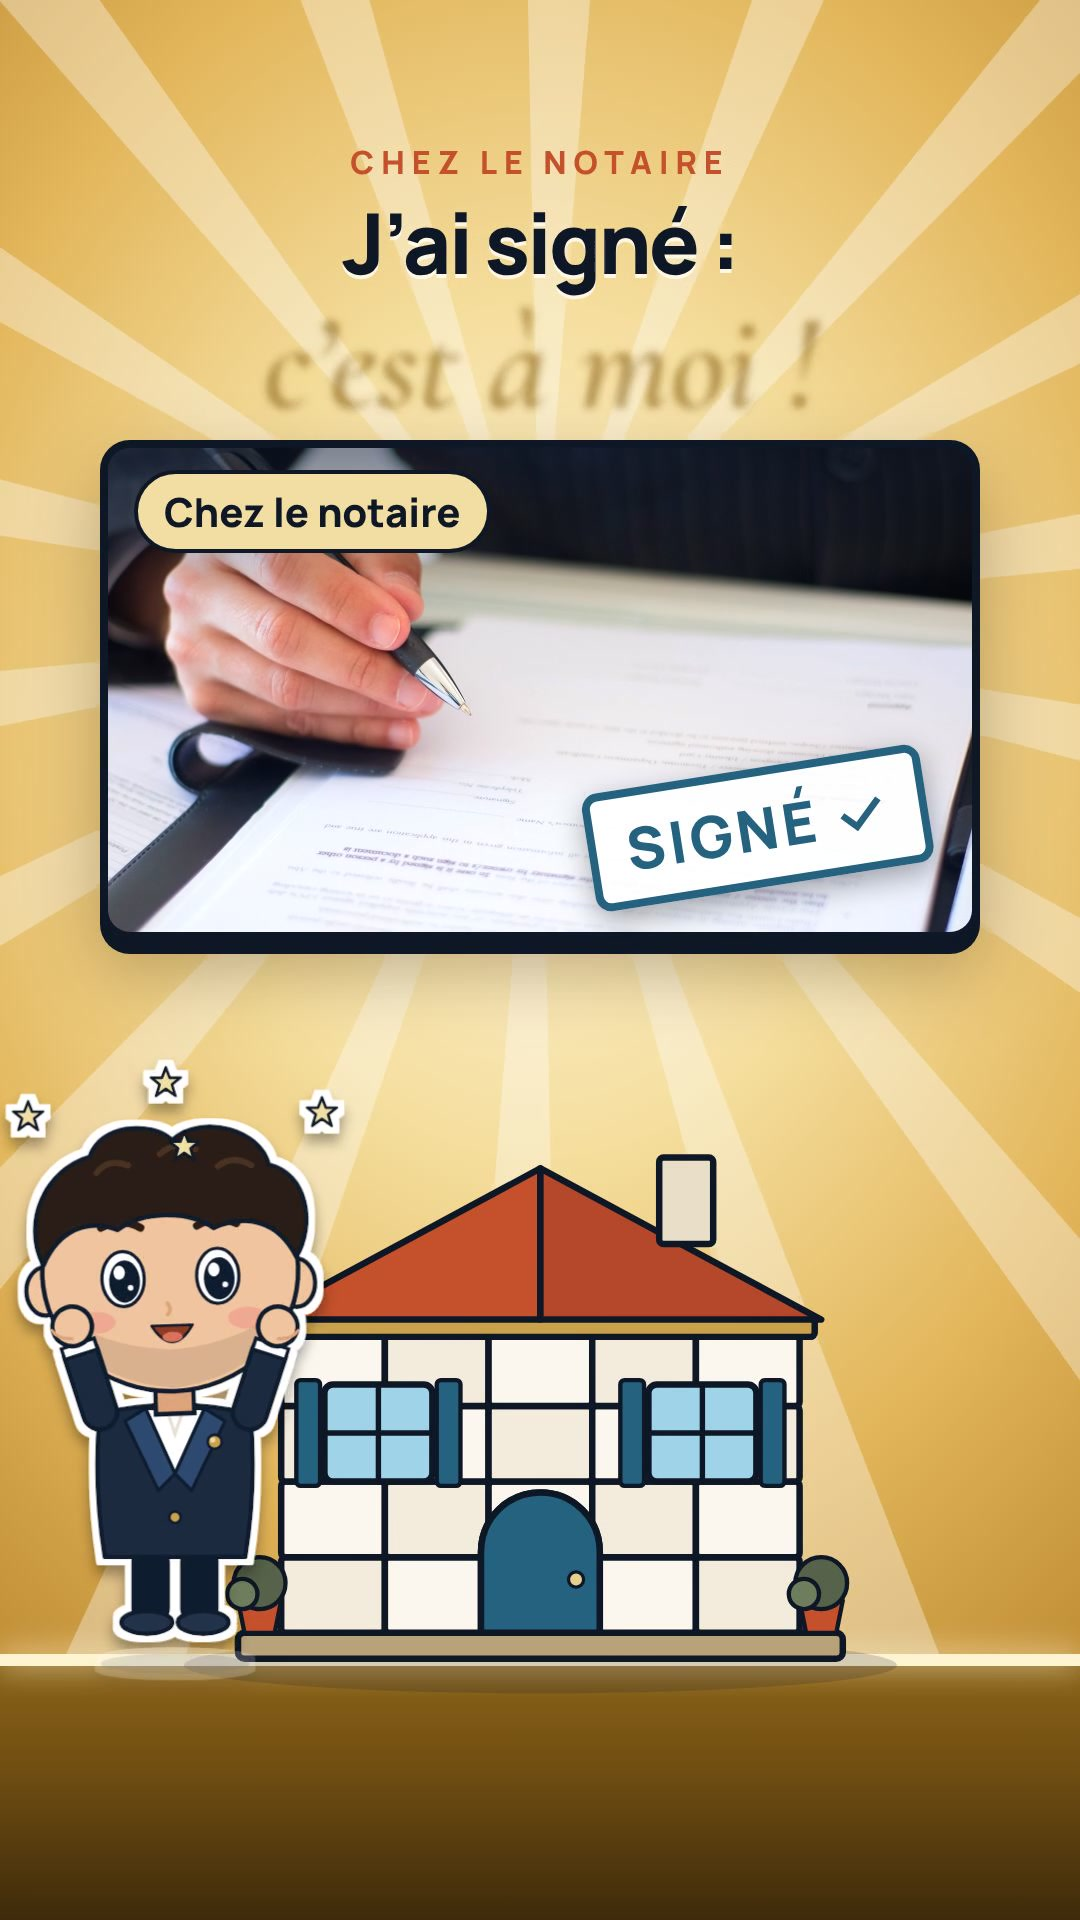
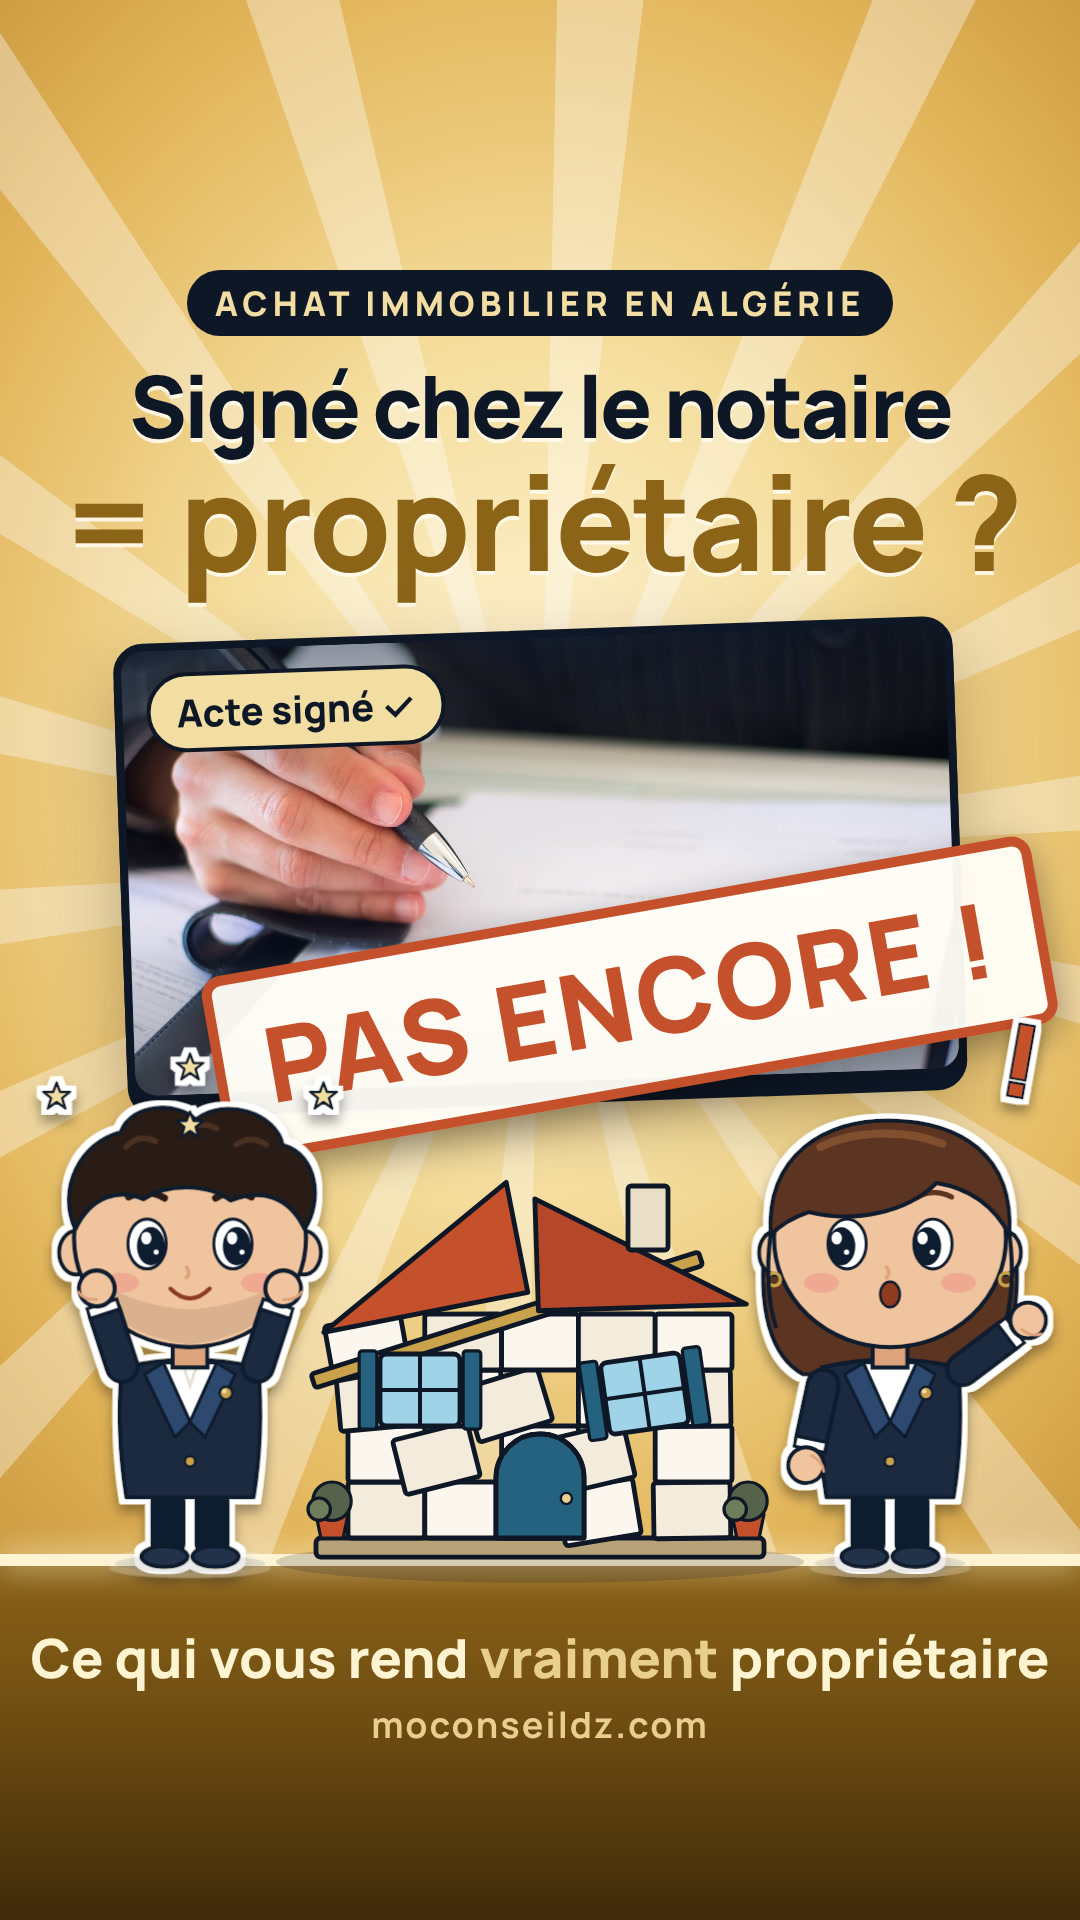
Duo n°2 : couverture dédiée (signé = propriétaire ? PAS ENCORE !)
Claude-Session: https://claude.ai/code/session_01Cr3Hhr15Lmxkkgbeev5QRS

diff --git a/outils/video/src/duo2_couverture.tsx b/outils/video/src/duo2_couverture.tsx
@@ -1,0 +1,56 @@
+// Couverture de la vidéo duo n°2 (17/11/2026) : « Signé chez le notaire = propriétaire ? PAS ENCORE ! »
+// Message lisible dans la zone centrale 1080 x 1350 (recadrage de la grille Instagram) ; mêmes éléments que la vidéo.
+import React from 'react';
+import {AbsoluteFill, Img, staticFile} from 'remotion';
+import {Chibi} from './chibi';
+import {C, SANS} from './kit';
+import {Maison} from './maison';
+
+const W = 1080, H = 1920, SOL = 1560;
+const NUIT = '#0E1726', TERRE = '#C4512B', OR_F = '#8C6418';
+const big: React.CSSProperties = {fontFamily: SANS, fontWeight: 800, letterSpacing: -3, lineHeight: 1.02, color: NUIT, filter: 'drop-shadow(0 4px 0 rgba(255,250,235,0.9))'};
+
+export const DuoSigneCouverture: React.FC<{crash?: number}> = ({crash = 0.13}) => {
+  const PW = 840, PHh = 460, PY = 860;
+  return (
+    <AbsoluteFill style={{background: '#F6E7BE'}}>
+      <AbsoluteFill style={{background: 'radial-gradient(ellipse 90% 65% at 50% 40%, #FFF6DC 0%, #F5DE9E 34%, #E2B55A 66%, #B8842C 100%)'}} />
+      <svg width={W} height={H} style={{position: 'absolute', inset: 0, opacity: 0.35}}>
+        <g transform={`translate(${W / 2} 860) rotate(4)`}>
+          {Array.from({length: 18}).map((_, i) => <path key={i} d="M0 0 L-70 -1400 L70 -1400 Z" fill="#FFFFFF" transform={`rotate(${i * 20})`} />)}
+        </g>
+      </svg>
+      {/* titre */}
+      <div style={{position: 'absolute', top: 270, width: '100%', textAlign: 'center'}}>
+        <div style={{display: 'inline-block', padding: '10px 28px', borderRadius: 999, background: NUIT, fontFamily: SANS, fontWeight: 800, fontSize: 34, letterSpacing: 5, color: '#F2DDA2', textTransform: 'uppercase'}}>Achat immobilier en Algérie</div>
+        <div style={{...big, fontSize: 86, marginTop: 26}}>Signé chez le notaire</div>
+        <div style={{...big, fontSize: 132, color: OR_F, marginTop: 4}}>= propriétaire ?</div>
+      </div>
+      {/* vraie photo de signature */}
+      <div style={{position: 'absolute', left: W / 2, top: PY, transform: 'translate(-50%,-50%) rotate(-2deg)'}}>
+        <div style={{position: 'relative', width: PW, height: PHh, borderRadius: 30, overflow: 'hidden', border: `8px solid ${NUIT}`, boxShadow: `0 14px 0 ${NUIT}, 0 30px 70px rgba(80,50,0,0.35)`, background: NUIT}}>
+          <Img src={staticFile('img/s2-signature.jpg')} style={{width: PW, height: PHh, objectFit: 'cover', transform: 'scale(1.06)', filter: 'saturate(1.2) contrast(1.08)'}} />
+          <AbsoluteFill style={{background: 'linear-gradient(180deg, rgba(10,20,40,0.45) 0%, rgba(10,20,40,0) 35%, rgba(10,20,40,0) 60%, rgba(10,20,40,0.35) 100%)'}} />
+          <div style={{position: 'absolute', left: 24, top: 22, padding: '10px 26px', borderRadius: 999, background: '#F2DDA2', border: `4px solid ${NUIT}`, fontFamily: SANS, fontWeight: 800, fontSize: 38, color: NUIT}}>Acte signé ✓</div>
+        </div>
+      </div>
+      {/* tampon PAS ENCORE, à cheval sur la photo */}
+      <div style={{position: 'absolute', left: W / 2 + 90, top: PY + 140, transform: 'translate(-50%,-50%) rotate(-10deg)'}}>
+        <div style={{padding: '14px 40px', border: `10px solid ${TERRE}`, borderRadius: 20, fontFamily: SANS, fontWeight: 800, fontSize: 104, letterSpacing: 3, color: TERRE, background: 'rgba(255,253,246,0.96)', whiteSpace: 'nowrap', boxShadow: '0 12px 34px rgba(0,0,0,0.35)'}}>PAS ENCORE !</div>
+      </div>
+      {/* estrade + maison qui se fissure */}
+      <div style={{position: 'absolute', left: 0, top: SOL, width: W, height: H - SOL, background: 'linear-gradient(180deg, #8C6418 0%, #6E4C12 45%, #3E2A0A 100%)'}} />
+      <div style={{position: 'absolute', left: 0, top: SOL - 6, width: W, height: 12, background: '#FFF4D2', boxShadow: '0 0 30px rgba(255,244,210,0.9)'}} />
+      <Maison x={540} y={SOL - 6} scale={0.8} build={1} crash={crash} seed="couv" />
+      <svg width={W} height={H} style={{position: 'absolute', inset: 0}}>
+        <Chibi kind="homme" x={190} y={SOL} scale={0.58} pose={{sticker: true, mouth: 'sourire', brow: 1, lookX: 0.6, armL: 150, armR: 150, fx: 'etoiles', fxT: 0.5}} />
+        <Chibi kind="femme" x={890} y={SOL} scale={0.58} pose={{sticker: true, mouth: 'o', brow: 1, lookX: -0.9, armR: 115, fx: 'exclam', fxT: 1}} />
+      </svg>
+      {/* bandeau bas (hors zone de recadrage, bonus en plein écran) */}
+      <div style={{position: 'absolute', top: SOL + 60, width: '100%', textAlign: 'center', fontFamily: SANS, fontWeight: 800, fontSize: 54, color: '#FFF4D2'}}>
+        Ce qui vous rend <span style={{color: C.orClair}}>vraiment</span> propriétaire
+      </div>
+      <div style={{position: 'absolute', top: SOL + 140, width: '100%', textAlign: 'center', fontFamily: SANS, fontWeight: 700, fontSize: 36, color: '#E9CF8E', letterSpacing: 2}}>moconseildz.com</div>
+    </AbsoluteFill>
+  );
+};

diff --git a/outils/video/src/Root.tsx b/outils/video/src/Root.tsx
@@ -21,6 +21,7 @@ import {Pack07Fredha, P07_FRAMES} from './p07pixar';
 import {Pack11Reel, P11_FRAMES} from './p11reel';
 import {MaisonDemo} from './maison_demo';
 import {DuoSigne, DUO2_FRAMES} from './duo2';
+import {DuoSigneCouverture} from './duo2_couverture';
 import {ValiseTest} from './valise_test';
 import {Pack10RetourDefinitif} from './p10';
 
@@ -146,6 +147,7 @@ export const Root: React.FC = () => (
     <Composition id="Pack02SuiviV2" component={Pack02SuiviV2} durationInFrames={885} fps={30} width={1080} height={1920} />
     <Composition id="Pack07Fredha" component={Pack07Fredha} durationInFrames={P07_FRAMES} fps={30} width={1080} height={1920} />
     <Composition id="DuoSigne" component={DuoSigne} durationInFrames={DUO2_FRAMES} fps={30} width={1080} height={1920} />
+    <Composition id="DuoSigneCouverture" component={DuoSigneCouverture} durationInFrames={1} fps={30} width={1080} height={1920} />
     <Composition id="MaisonDemo" component={MaisonDemo} durationInFrames={210} fps={30} width={1080} height={1920} />
     <Composition id="Pack11Reel" component={Pack11Reel} durationInFrames={P11_FRAMES} fps={30} width={1080} height={1920} />
     <Composition id="DuoConciergerie" component={DuoConciergerie} durationInFrames={DUO_FRAMES} fps={30} width={1080} height={1920} />
